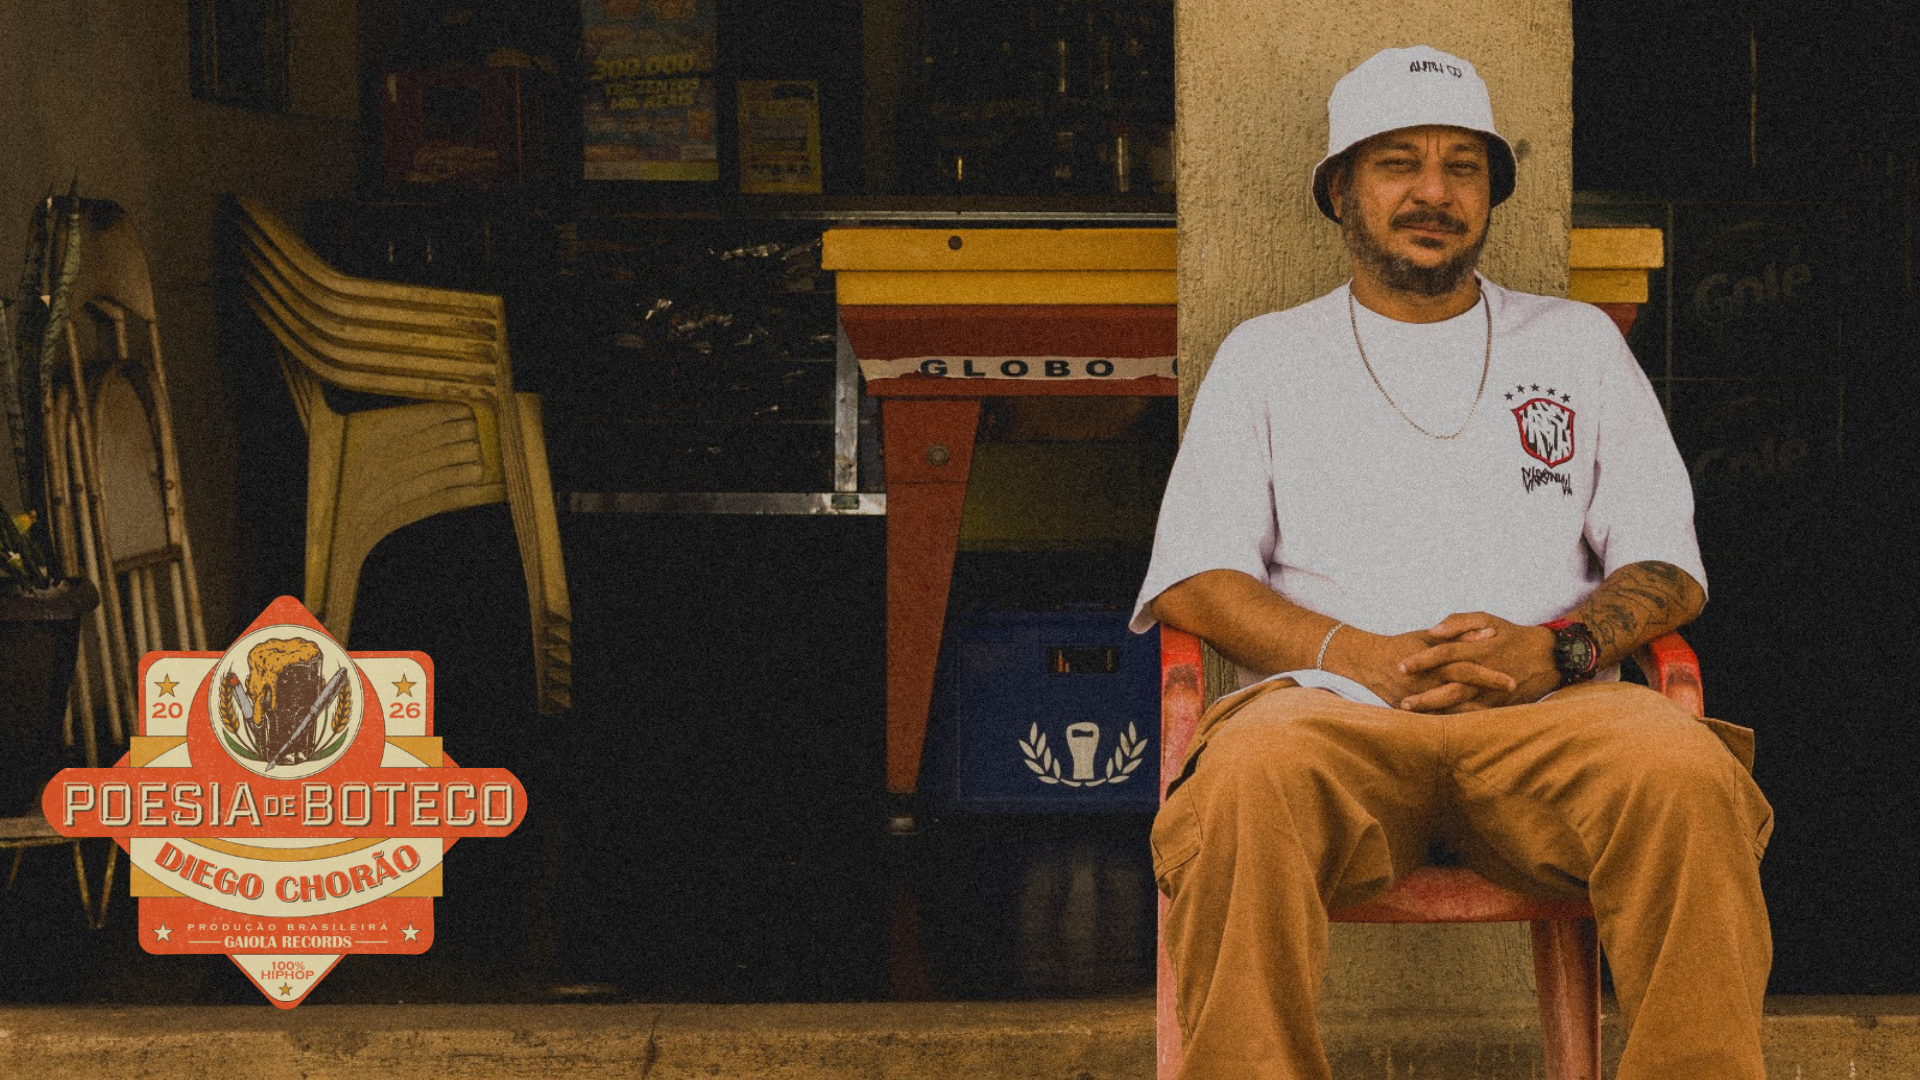
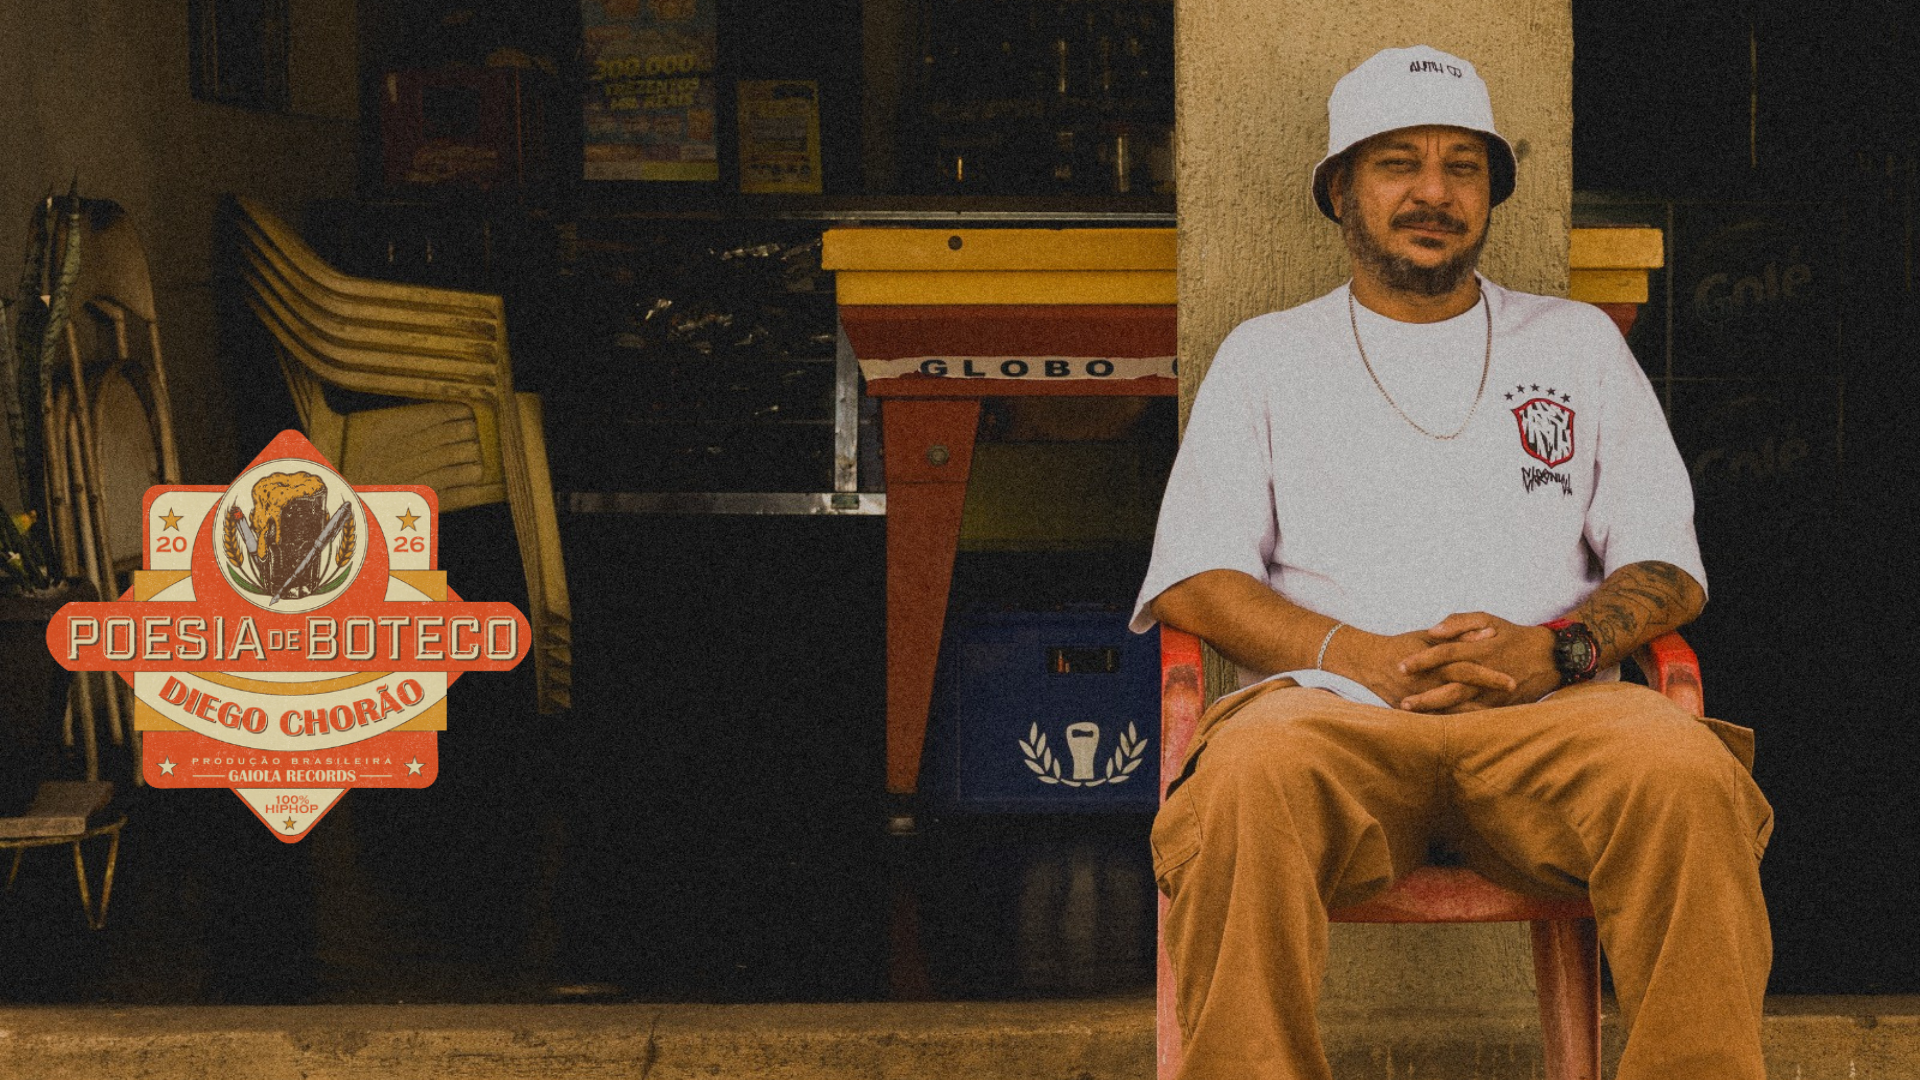
fix: adiciona query string na imagem de fundo para forcar quebra de cache

Changed region(s): [[0.0, 0.3972, 0.2812, 0.9472]]

diff --git a/diego-chorao.html b/diego-chorao.html
@@ -114,7 +114,7 @@
 <div class="fixed inset-0 z-0 pointer-events-none">
 <div class="absolute inset-0 bg-black/80 z-10"></div>
 <picture>
-  <source media="(max-width: 767px)" srcset="assets/bg-diego-mobile.png">
+  <source media="(max-width: 767px)" srcset="assets/bg-diego-mobile.png?v=2">
   <img alt="" class="w-full h-full object-cover object-top" src="assets/bg-diego-pc.png"/>
 </picture>
 </div>
